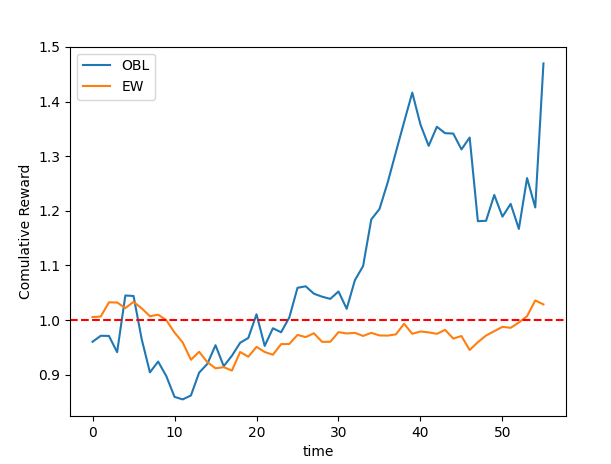
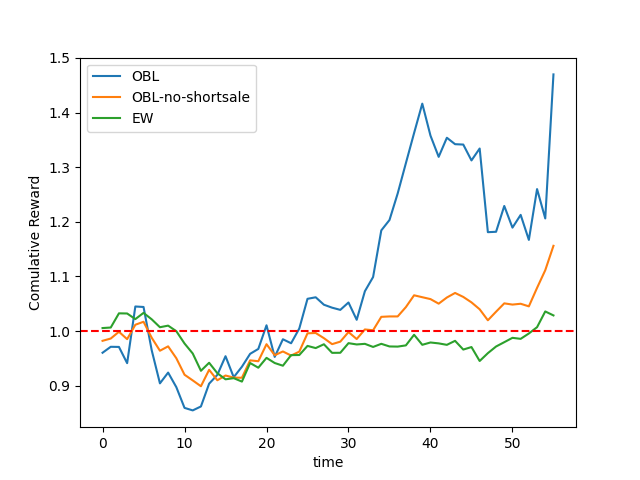
Added plots, OBP wo SS

Changed region(s): [[0.0311, 0.0905, 0.9329, 0.9957], [0.9018, 0.0905, 0.9329, 0.1207]]

diff --git a/obp.py b/obp.py
@@ -103,7 +103,11 @@ if __name__=="__main__":
     
     N = [np.zeros(Nsign), np.zeros(Nassets-Nsign)]
     mu = []
+    mu_nss = []
     muEW = []
+    weights = []
+    weights_NSS = []
+    theta_hist = []
     for k in range(time):
         Sigma,ExpectedReturn = compute_stats(
                                     totlen=totlen,
@@ -136,24 +140,32 @@ if __name__=="__main__":
 
         theta = LP_sign[best_assets[0]]/(LP_sign[best_assets[0]] + LP_insign[best_assets[1]])
         w = (1-theta)*H_sign[:,best_assets[0]] + theta*H_insign[:,best_assets[1]]
+        weights.append(w)
         assert(np.sum(w)-1<10**-10)
+
+        #NO SHORT SELL ---
+        w_nss = [a if a>0 else 0 for a in w]
+        w_nss = w_nss/np.sum(w_nss)
+        weights_NSS.append(w_nss)
+        assert(np.sum(w_nss)-1<10**-10)
+        # ---- 
 
         kp1 = tau + k
         muk = np.sum(w*history[kp1])-1
+        muk_nss = np.sum(w_nss*history[kp1])-1
         mukEW = np.sum(history[kp1]/Nassets)-1
         mu.append(muk)
+        mu_nss.append(muk_nss)
         muEW.append(mukEW)  
-        #print("k {} --".format(k))
-        #print('k: {} -- Weights: {}'.format(k,w))
-        #print("net return: {0:.2f} %".format(100*muk))
-
+        theta_hist.append(theta)
+ 
     Emu=np.mean(mu)
     Smu=np.std(mu)
     print('Mean Sharpe Ratio: {}({}) normalized SR {}'.format(Emu,Smu,Emu/Smu))
-    cw = np.prod(np.array([m+1 for m in mu]))
-    cwEW = np.prod(np.array([m+1 for m in muEW]))
-    print('Cumulative Reward EW : {}'.format(cw))
-    print('Cumulative Reward OBL: {}'.format(cwEW))
+    #cw = np.prod(np.array([m+1 for m in mu]))
+    #cwEW = np.prod(np.array([m+1 for m in muEW]))
+    #print('Cumulative Reward EW : {}'.format(cw))
+    #print('Cumulative Reward OBL: {}'.format(cwEW))
     
 
     ccw = 1
@@ -161,7 +173,13 @@ if __name__=="__main__":
     for k in range(time):
         ccw *=(mu[k]+1)
         history_cw.append(ccw)
-    
+
+    ccw_nss = 1
+    history_cw_nss = []
+    for k in range(time):
+        ccw_nss *=(mu_nss[k]+1)
+        history_cw_nss.append(ccw_nss)
+
     ccwEW = 1
     history_cwEW = []
     for k in range(time):
@@ -171,9 +189,39 @@ if __name__=="__main__":
 
     fig = plt.figure()
     plt.plot(history_cw)
+    plt.plot(history_cw_nss)
     plt.plot(history_cwEW)
-    plt.legend(['OBL','EW'])
+    plt.legend(['OBL','OBL-no-shortsale','EW'])
     plt.xlabel('time')
     plt.ylabel('Comulative Reward')
     plt.axhline(y=1, color='r', linestyle='--')
-    plt.show()
+    plt.savefig('./fig/OBPvsEW.png')
+
+    fig = plt.figure()
+    plt.plot(theta_hist)
+    plt.xlabel('time')
+    plt.ylabel('theta mixing')
+    plt.axhline(y=1, color='r', linestyle='--')
+    plt.savefig('./fig/theta.png')
+    
+    fig = plt.figure()
+    plt.plot(np.dot(100,weights[:]))
+    plt.xlabel('time')
+    plt.ylabel('invested % of wealth')
+    plt.axhline(y=100/Nassets, color='b', linestyle=':')
+    plt.legend(ticker+['EW strategy'])
+    plt.axhline(y=0, color='r', linestyle='--')
+    plt.axhline(y=100, color='g', linestyle='--') 
+    plt.savefig('./fig/weights.png')
+
+    fig = plt.figure()
+    plt.plot(np.dot(100,weights_NSS[:]))
+    plt.xlabel('time')
+    plt.ylabel('invested % of wealth')
+    plt.axhline(y=100/Nassets, color='b', linestyle=':')
+    plt.legend(ticker+['EW strategy'])
+    plt.axhline(y=0, color='r', linestyle='--')
+    plt.axhline(y=100, color='g', linestyle='--') 
+    plt.savefig('./fig/weights_nss.png')
+    
+    

diff --git a/README.md b/README.md
@@ -11,7 +11,15 @@ Nsign = 4            #<- number of significant portfolios. To be tuned.
 
 Inference window is [start_date+tau+1:end_date].   
 
+Cumulative Wealth (CW) comparison among OBP, OBP w/o shortsale and Equally Weighted (EW) portfolios. 
 ![alt text](https://github.com/pretidav/orthogonal-bandits/raw/main/fig/OBPvsEW.png)
+Theta mixing among relevant and irrelevant orthogonal portfolios (theta=1 all irrelevant, theta=0 all relevant)
+![alt text](https://github.com/pretidav/orthogonal-bandits/raw/main/fig/theta.png)
+Invested percentage for OBP. Negative values correspond to short sale balancing values larger than 100%.  
+![alt text](https://github.com/pretidav/orthogonal-bandits/raw/main/fig/weights.png)
+Invested percentage for OBP without short sale possibility. Minimum % is clipped to 0 and all other weights are normalized consequently. 
+![alt text](https://github.com/pretidav/orthogonal-bandits/raw/main/fig/weights_nss.png)
+
 
 Inspired by "Portfolio Choices with Orthogonal Bandit Learning" W. Shen et al. 2015. 
 
